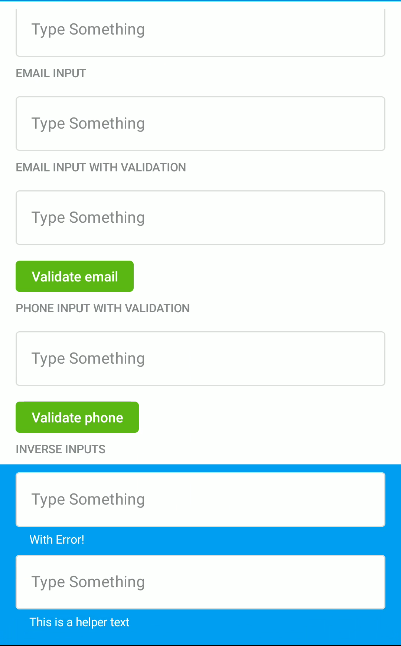
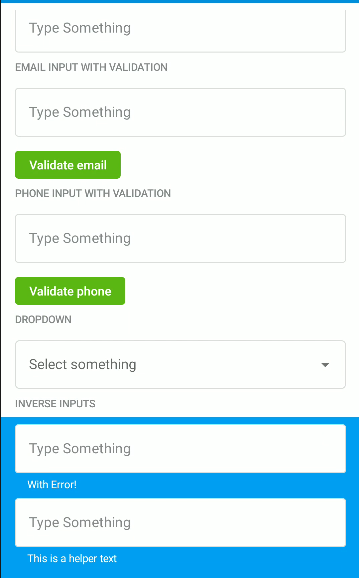
small refactor in DropDownInput and ListRowItem and update docs

Changed region(s): [[0.0, 0.1557, 1.0, 1.0], [0.0, 0.0, 1.0, 0.1557], [0.8886, 0.6228, 0.9192, 0.654]]

diff --git a/catalog-compose/src/main/java/com/telefonica/mistica/compose/catalog/ui/components/Inputs.kt b/catalog-compose/src/main/java/com/telefonica/mistica/compose/catalog/ui/components/Inputs.kt
@@ -20,6 +20,7 @@ import androidx.compose.ui.Modifier
 import androidx.compose.ui.unit.dp
 import com.telefonica.mistica.compose.button.Button
 import com.telefonica.mistica.compose.button.ButtonStyle
+import com.telefonica.mistica.compose.input.DropDownInput
 import com.telefonica.mistica.compose.input.EmailInput
 import com.telefonica.mistica.compose.input.PhoneInput
 import com.telefonica.mistica.compose.input.TextInput
@@ -52,6 +53,8 @@ fun Inputs() {
         EmailInputWithValidation()
         Title("Phone input with validation")
         PhoneInputWithValidation()
+        Title("Dropdown")
+        DropDownSample()
         Title("Inverse inputs")
         Column(
             modifier = Modifier
@@ -270,5 +273,25 @@ private fun ColumnScope.PhoneInputWithValidation() {
             isError = text.isEmpty()
         },
         buttonStyle = ButtonStyle.PRIMARY_SMALL
+    )
+}
+
+@Composable
+private fun DropDownSample() {
+    val items = remember {
+        listOf("Item 1", "Item 2", "Item 3")
+    }
+    var selectedItemIndex by remember {
+        mutableStateOf<Int?>(null)
+    }
+    DropDownInput(
+        modifier = Modifier.fillMaxWidth()
+            .padding(top = 8.dp, start = 16.dp, end = 16.dp),
+        hint = "Select something",
+        currentItemIndex = selectedItemIndex,
+        items = items,
+        onItemSelected = {
+            selectedItemIndex = it
+        }
     )
 }

diff --git a/library-compose/src/main/java/com/telefonica/mistica/compose/input/DropDownInput.kt b/library-compose/src/main/java/com/telefonica/mistica/compose/input/DropDownInput.kt
@@ -1,4 +1,4 @@
-package com.telefonica.mistica.compose.button
+package com.telefonica.mistica.compose.input
 
 import android.widget.AdapterView
 import androidx.compose.runtime.Composable
@@ -12,7 +12,7 @@ import com.telefonica.mistica.input.DropDownInput
 fun DropDownInput(
     modifier: Modifier = Modifier,
     items: List<String>,
-    currentItemIndex: Int,
+    currentItemIndex: Int? = null,
     onItemSelected: (Int) -> Unit = {},
     hint: String? = null,
     error: String? = null,
@@ -46,7 +46,9 @@ fun DropDownInput(
                     )
                 )
             }
-            it.dropDown.setText(if (currentItemIndex >= 0) rememberedItems[currentItemIndex] else "")
+            it.dropDown.setText(
+                if (currentItemIndex != null && currentItemIndex >= 0) rememberedItems[currentItemIndex] else ""
+            )
             it.hint = hint
             it.error = error
             it.helperText = helperText

diff --git a/library-compose/src/main/java/com/telefonica/mistica/compose/list/ListRowItem.kt b/library-compose/src/main/java/com/telefonica/mistica/compose/list/ListRowItem.kt
@@ -49,7 +49,7 @@ fun ListRowItem(
     isBadgeVisible: Boolean = false,
     headline: Tag? = null,
     trailing: @Composable (() -> Unit)? = null,
-    onClick: () -> Unit = {},
+    onClick: (() -> Unit)? = {},
 ) {
     val badgeVisible by remember { mutableStateOf(isBadgeVisible) }
 
@@ -62,7 +62,7 @@ fun ListRowItem(
     }
         .fillMaxWidth()
         .clip(shape = RoundedCornerShape(4.dp))
-        .clickable(onClick = onClick)
+        .makeClickableIfNeeded(onClick)
 
     val rowModifier = when (backgroundType) {
         BackgroundType.TYPE_NORMAL -> Modifier
@@ -172,6 +172,13 @@ fun ListRowItem(
         }
     }
 }
+
+private fun Modifier.makeClickableIfNeeded(onClick: (() -> Unit)?): Modifier =
+    if (onClick != null) {
+        clickable(onClick = onClick)
+    } else {
+        this
+    }
 
 @ExperimentalMaterialApi
 @Preview(showBackground = true)

diff --git a/catalog-compose/src/main/java/com/telefonica/mistica/compose/catalog/ui/CatalogMainActivity.kt b/catalog-compose/src/main/java/com/telefonica/mistica/compose/catalog/ui/CatalogMainActivity.kt
@@ -35,7 +35,7 @@ import androidx.navigation.NavHostController
 import androidx.navigation.compose.NavHost
 import androidx.navigation.compose.composable
 import androidx.navigation.compose.rememberNavController
-import com.telefonica.mistica.compose.button.DropDownInput
+import com.telefonica.mistica.compose.input.DropDownInput
 import com.telefonica.mistica.compose.catalog.R
 import com.telefonica.mistica.compose.catalog.ui.components.Buttons
 import com.telefonica.mistica.compose.catalog.ui.components.DataCards

diff --git a/library-compose/src/main/java/com/telefonica/mistica/compose/input/TextInputImpl.kt b/library-compose/src/main/java/com/telefonica/mistica/compose/input/TextInputImpl.kt
@@ -77,7 +77,7 @@ private fun TextBox(
     value: String,
     onValueChange: (String) -> Unit,
     label: String,
-    isError: Boolean = false,
+    isError: Boolean,
     trailingIcon: @Composable (() -> Unit)?,
     keyboardOptions: FoundationKeyboardOptions,
 ) {

diff --git a/library-compose/README.md b/library-compose/README.md
@@ -65,6 +65,9 @@ Mística-compose supports a subset of the Mística elements. The objective is to
 * [Lists](./src/main/java/com/telefonica/mistica/compose/list)
 * [Tags](./src/main/java/com/telefonica/mistica/compose/tag)
 * [Carousel](./src/main/java/com/telefonica/mistica/compose/carousel)
+* [Empty States](./src/main/java/com/telefonica/mistica/compose/emptystate/screen)
+* [Empty State Cards](./src/main/java/com/telefonica/mistica/compose/emptystate/card)
+* [Inputs](./src/main/java/com/telefonica/mistica/compose/inputs)
 
 ## Fonts
 Mística-compose supports the same fonts supported in Mística. See [MisticaTypography](https://github.com/Telefonica/mistica-android/library-compose/src/main/java/com/telefonica/mistica/compose/theme/text/MisticaTypography.kt)

diff --git a/library-compose/src/main/java/com/telefonica/mistica/compose/input/README.md b/library-compose/src/main/java/com/telefonica/mistica/compose/input/README.md
@@ -9,9 +9,9 @@ Current Composable input types:
 * `TextInput`
 * `PhoneInput`
 * `EmailInput`
+* `DropDownInput` (Implemented with `AndroidView`)
 
 **Note**: not every input component is migrated yet to compose. Those components that need to be migrated at some point are:
 * Text area (from `com.telefonica.mistica.input.TextInput` with `inputType="textArea"`)
 * Password input text (from `com.telefonica.mistica.input.TextInput` with `inputType="password"`)
 * Check Box Input (from `com.telefonica.mistica.input.CheckBoxInput`)
-* Drop Down Input (from `com.telefonica.mistica.input.DropDownInput`)
